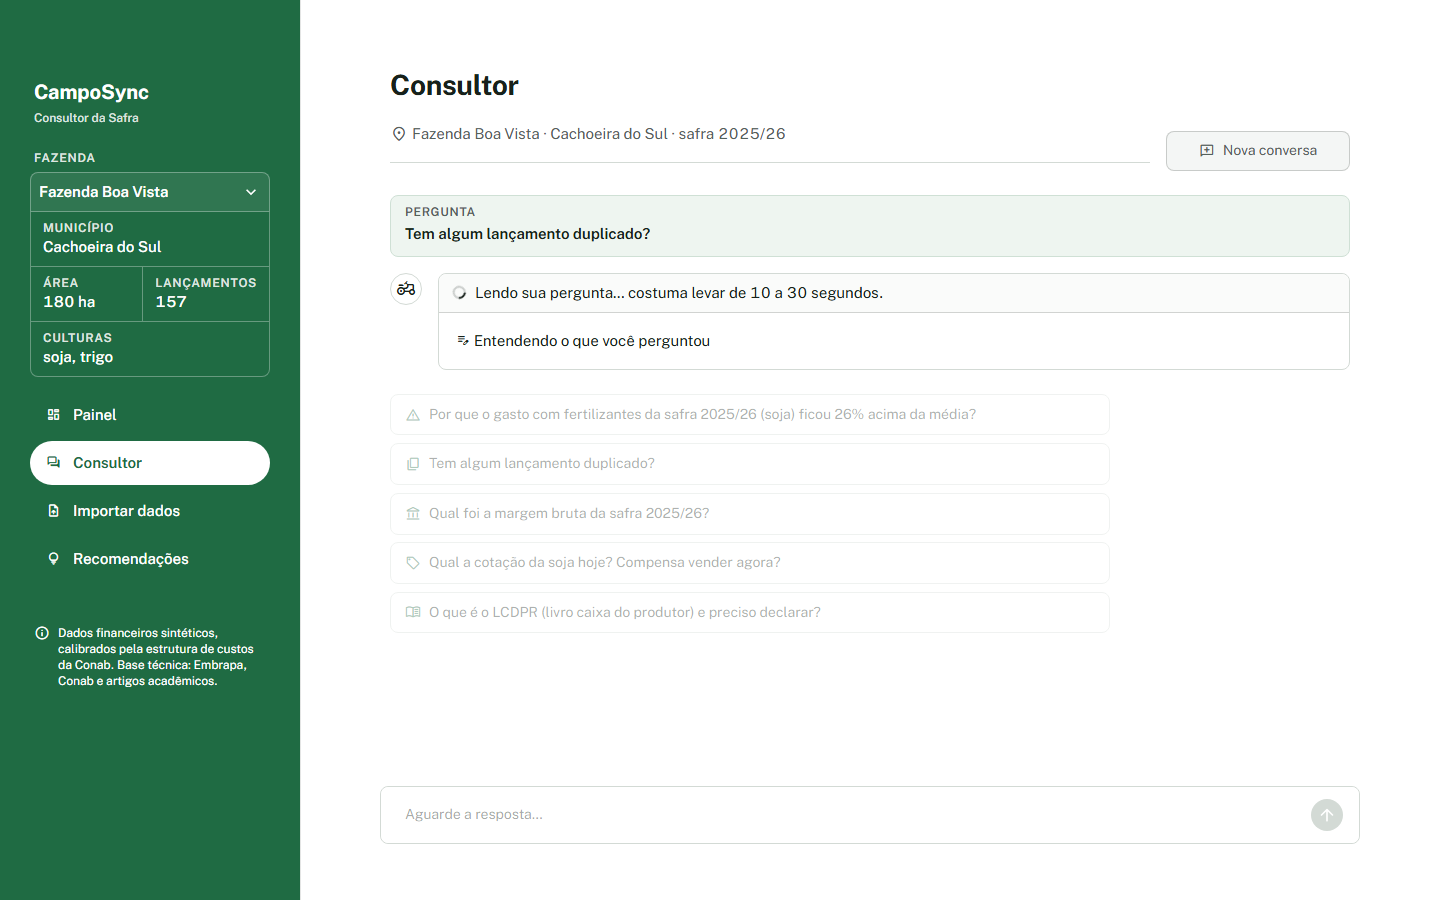
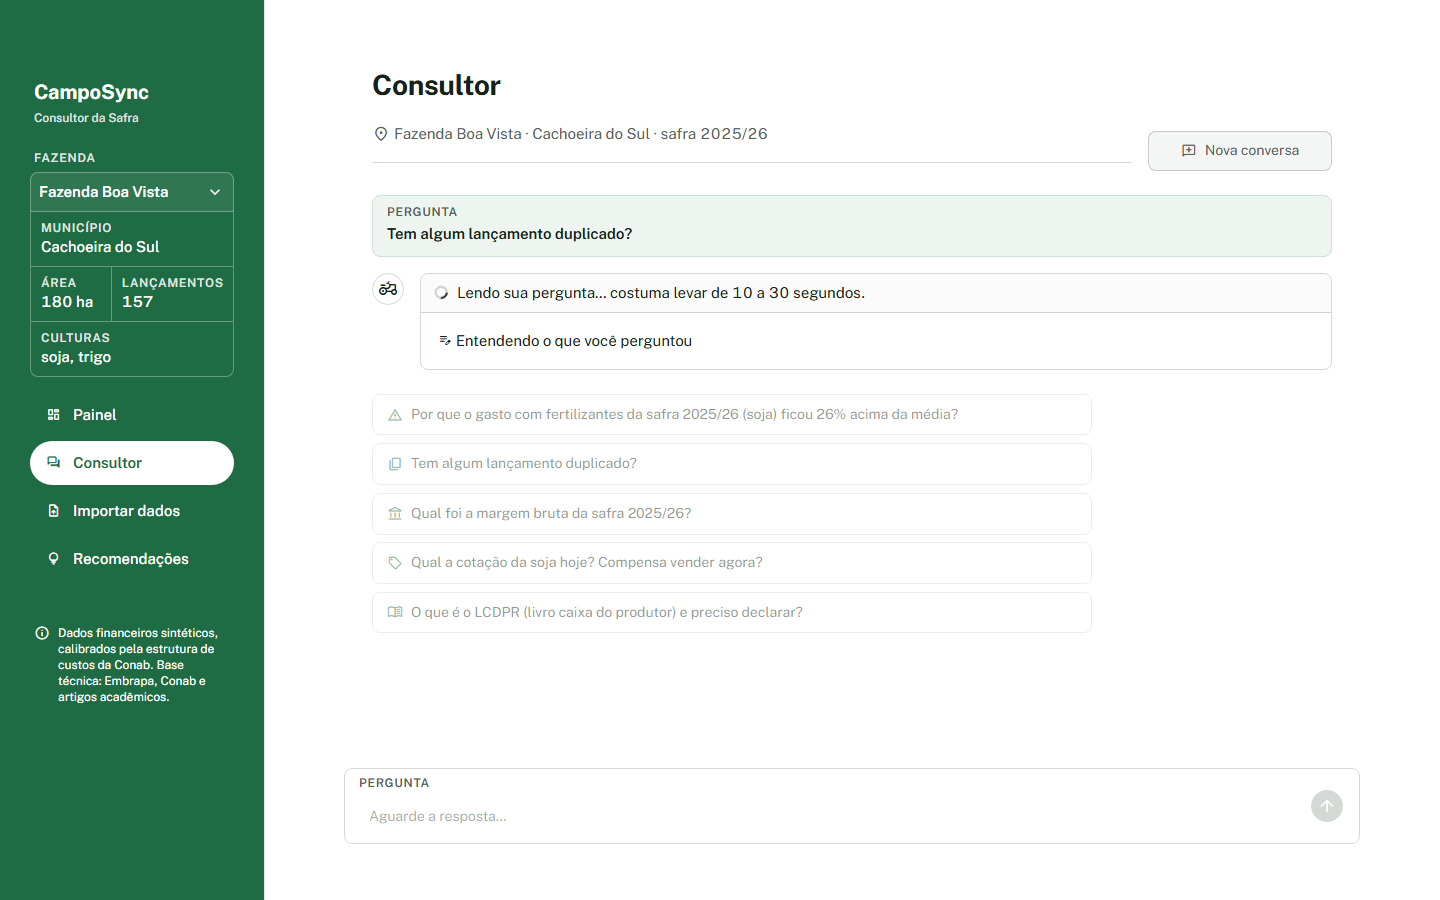
docs: atualiza prints de espera e erro com a interface atual
O print de erro é o estado real: a cota diária de modelos gratuitos do
OpenRouter estava esgotada (429 free-models-per-day).

diff --git a/docs/ROADMAP.md b/docs/ROADMAP.md
@@ -35,7 +35,7 @@ Itens exigidos pelo enunciado. Sem eles a nota fica comprometida.
 - [x] **Commits de todos os integrantes.** Cada pessoa do grupo faz ao menos um commit real com a própria identidade; o enunciado zera a nota de quem não tiver evidência de contribuição.
 - [x] **Validar a execução do zero** em uma máquina limpa: clonar, criar venv, `pip install -r requirements.txt`, definir `OPENROUTER_API_KEY`, `streamlit run app.py`. Corrigir o que quebrar. *(Validado em venv limpo; app agora abre mesmo sem chave.)*
 - [x] **Conferir o `requirements.txt`**: o código usa `openai` (cliente do OpenRouter); confirmar que nada sobrou do `anthropic`.
-- [x] **Exemplos de resultados** em `docs/resultados/`: avaliação do agente com as respostas completas, log de exemplo e 9 prints da interface (painel, consultor, recomendações, importar, celular). *(Os prints que dependem de resposta do LLM — aguardando, erro e comprovante no celular — são da rodada anterior; refazer se houver cota de modelo.)*
+- [x] **Exemplos de resultados** em `docs/resultados/`: avaliação do agente com as respostas completas, log de exemplo e 9 prints da interface (painel, consultor, recomendações, importar, celular). *(Só o print 08, resposta com comprovante no celular, é da rodada anterior: em 23/11 a cota diária de modelos gratuitos do OpenRouter estava esgotada; o 04 é o erro real dessa situação.)*
 - [x] **Seção "Problema e valor" no README**: quem é o usuário, qual a dor, o que muda com a solução (o professor avalia problema real e valor gerado, não só tecnologia).
 - [x] **Deixar claro que os dados são sintéticos**, com estrutura de custos baseada nas planilhas da Conab.
 
@@ -51,7 +51,7 @@ Itens que a revisão de design deixou abertos e que foram fechados, e o que aind
 - [x] Cores soltas viraram tokens em `ui/tema.py` (`VERDE_FIO`, `OK_FIO`, `ERRO_FIO`, `GRADE`).
 - [x] Prints do repositório refeitos com a interface atual.
 - [ ] Ícones de 16/18/20px e fonte 13px nos gráficos ficam fora da escala de 4 tamanhos (desvio pequeno, anotado no `DESIGN.md`).
-- [ ] Refazer os prints que dependem de resposta do LLM (precisa de cota de modelo).
+- [ ] Refazer o print 08 (resposta no celular) com cota de modelo disponível.
 
 ---
 
